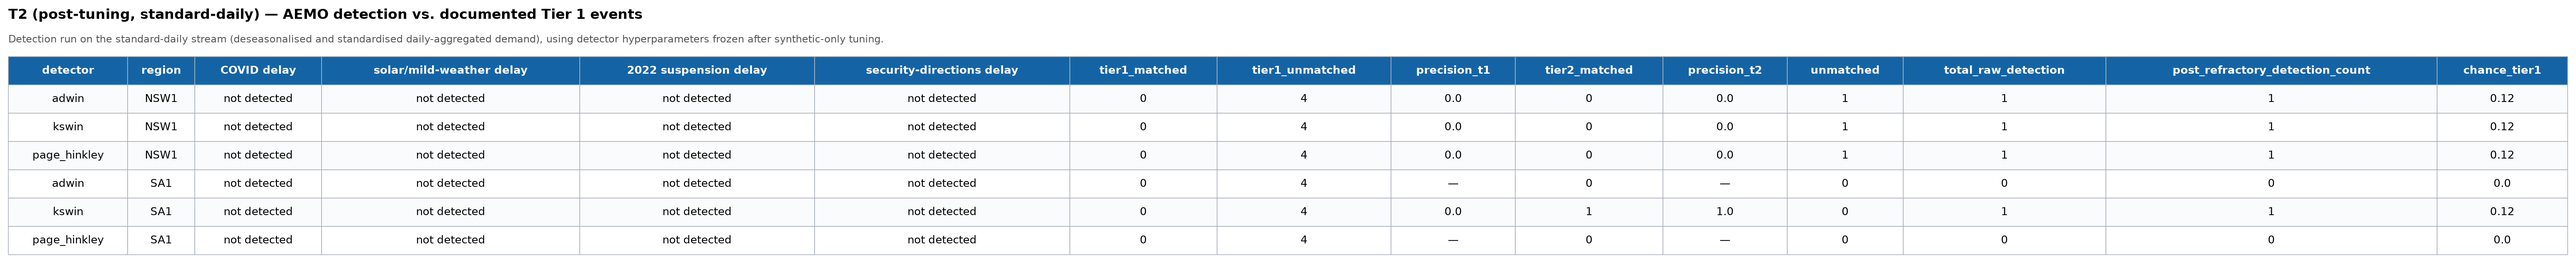
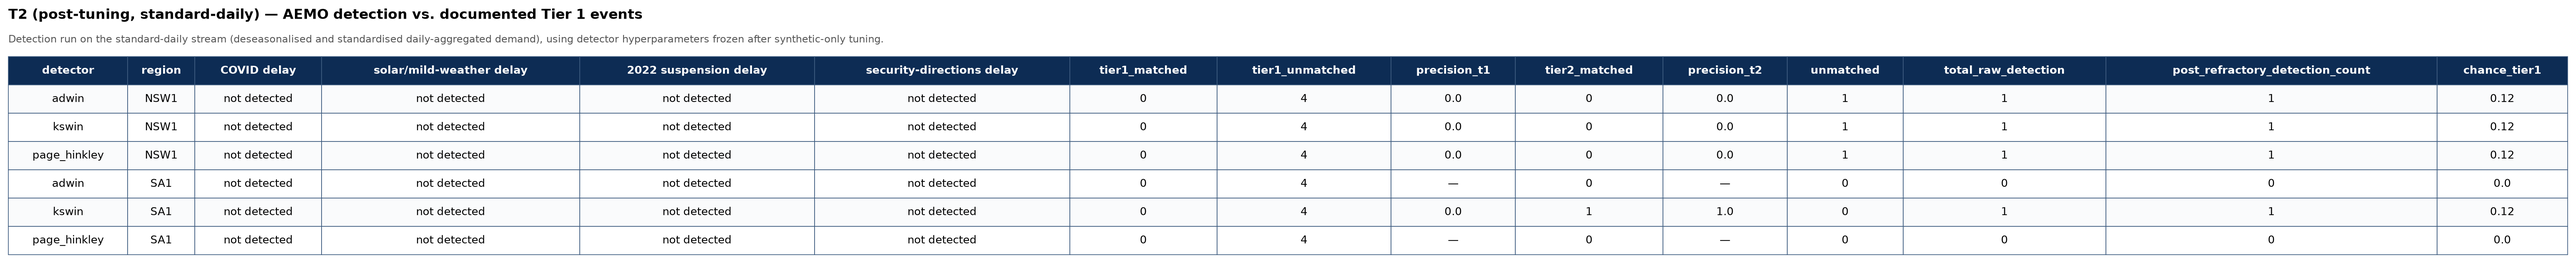
add: update formatting color to dark blue

diff --git a/experiments/produce/table_image.py b/experiments/produce/table_image.py
@@ -13,10 +13,10 @@ import pandas as pd
 
 from experiments.produce.figure_text import line_height_in, wrap_to_width
 
-HEADER_COLOR = "#1464A5"
+HEADER_COLOR = "#0D2C54"
 HEADER_TEXT_COLOR = "white"
 ROW_COLORS = ("white", "#FAFBFC")
-BORDER_COLOR = "#AAB2BD"
+BORDER_COLOR = "#3E5C80"
 TITLE_SIZE = 12
 SUBTITLE_SIZE = 8.5
 
